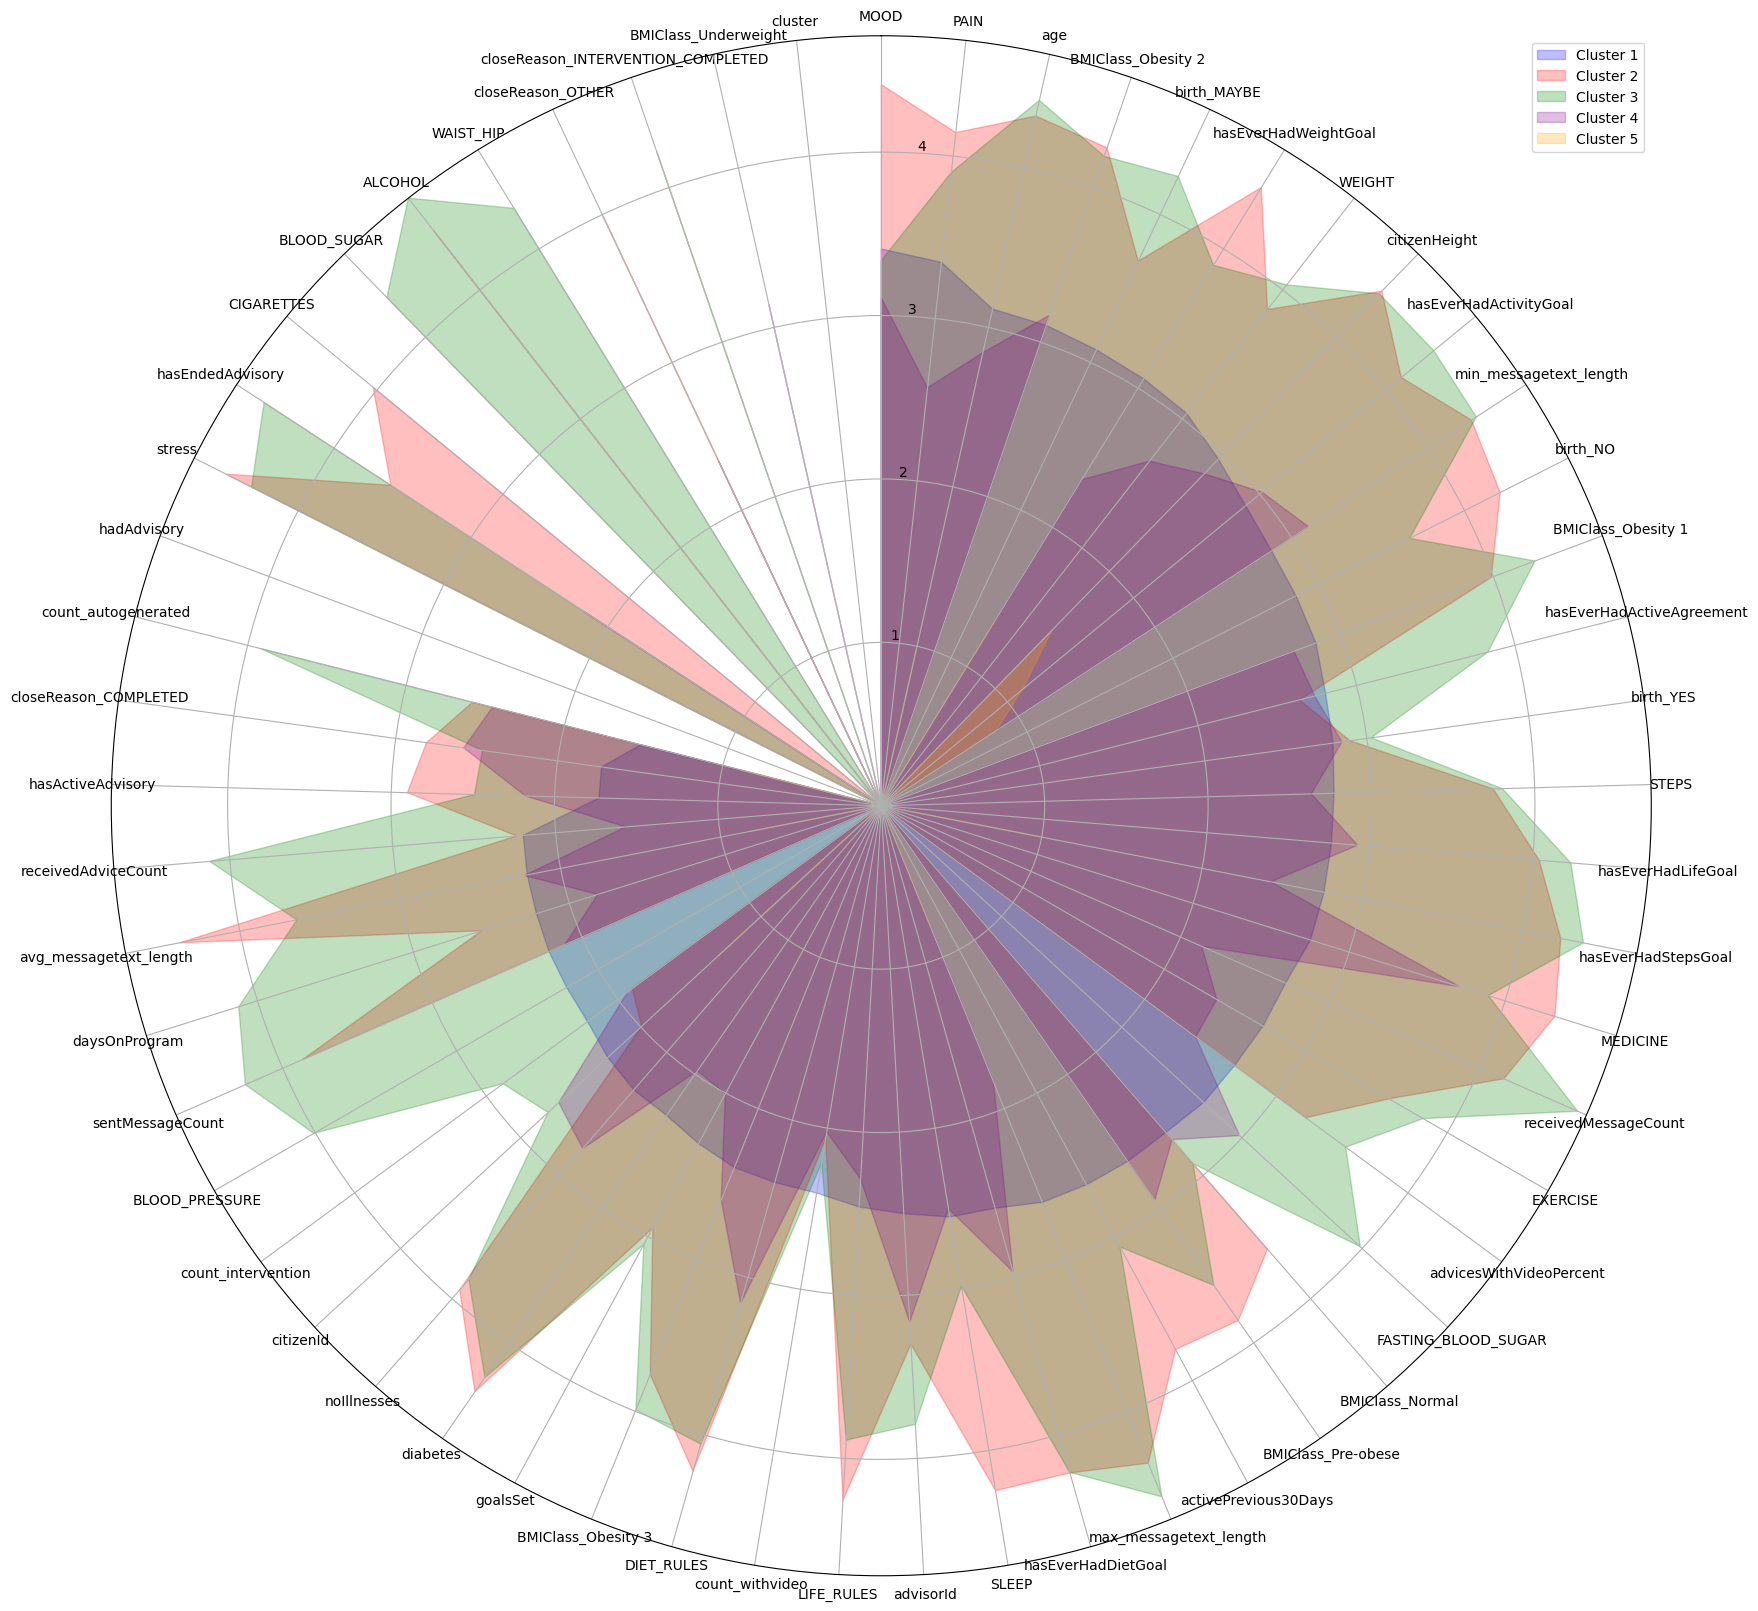
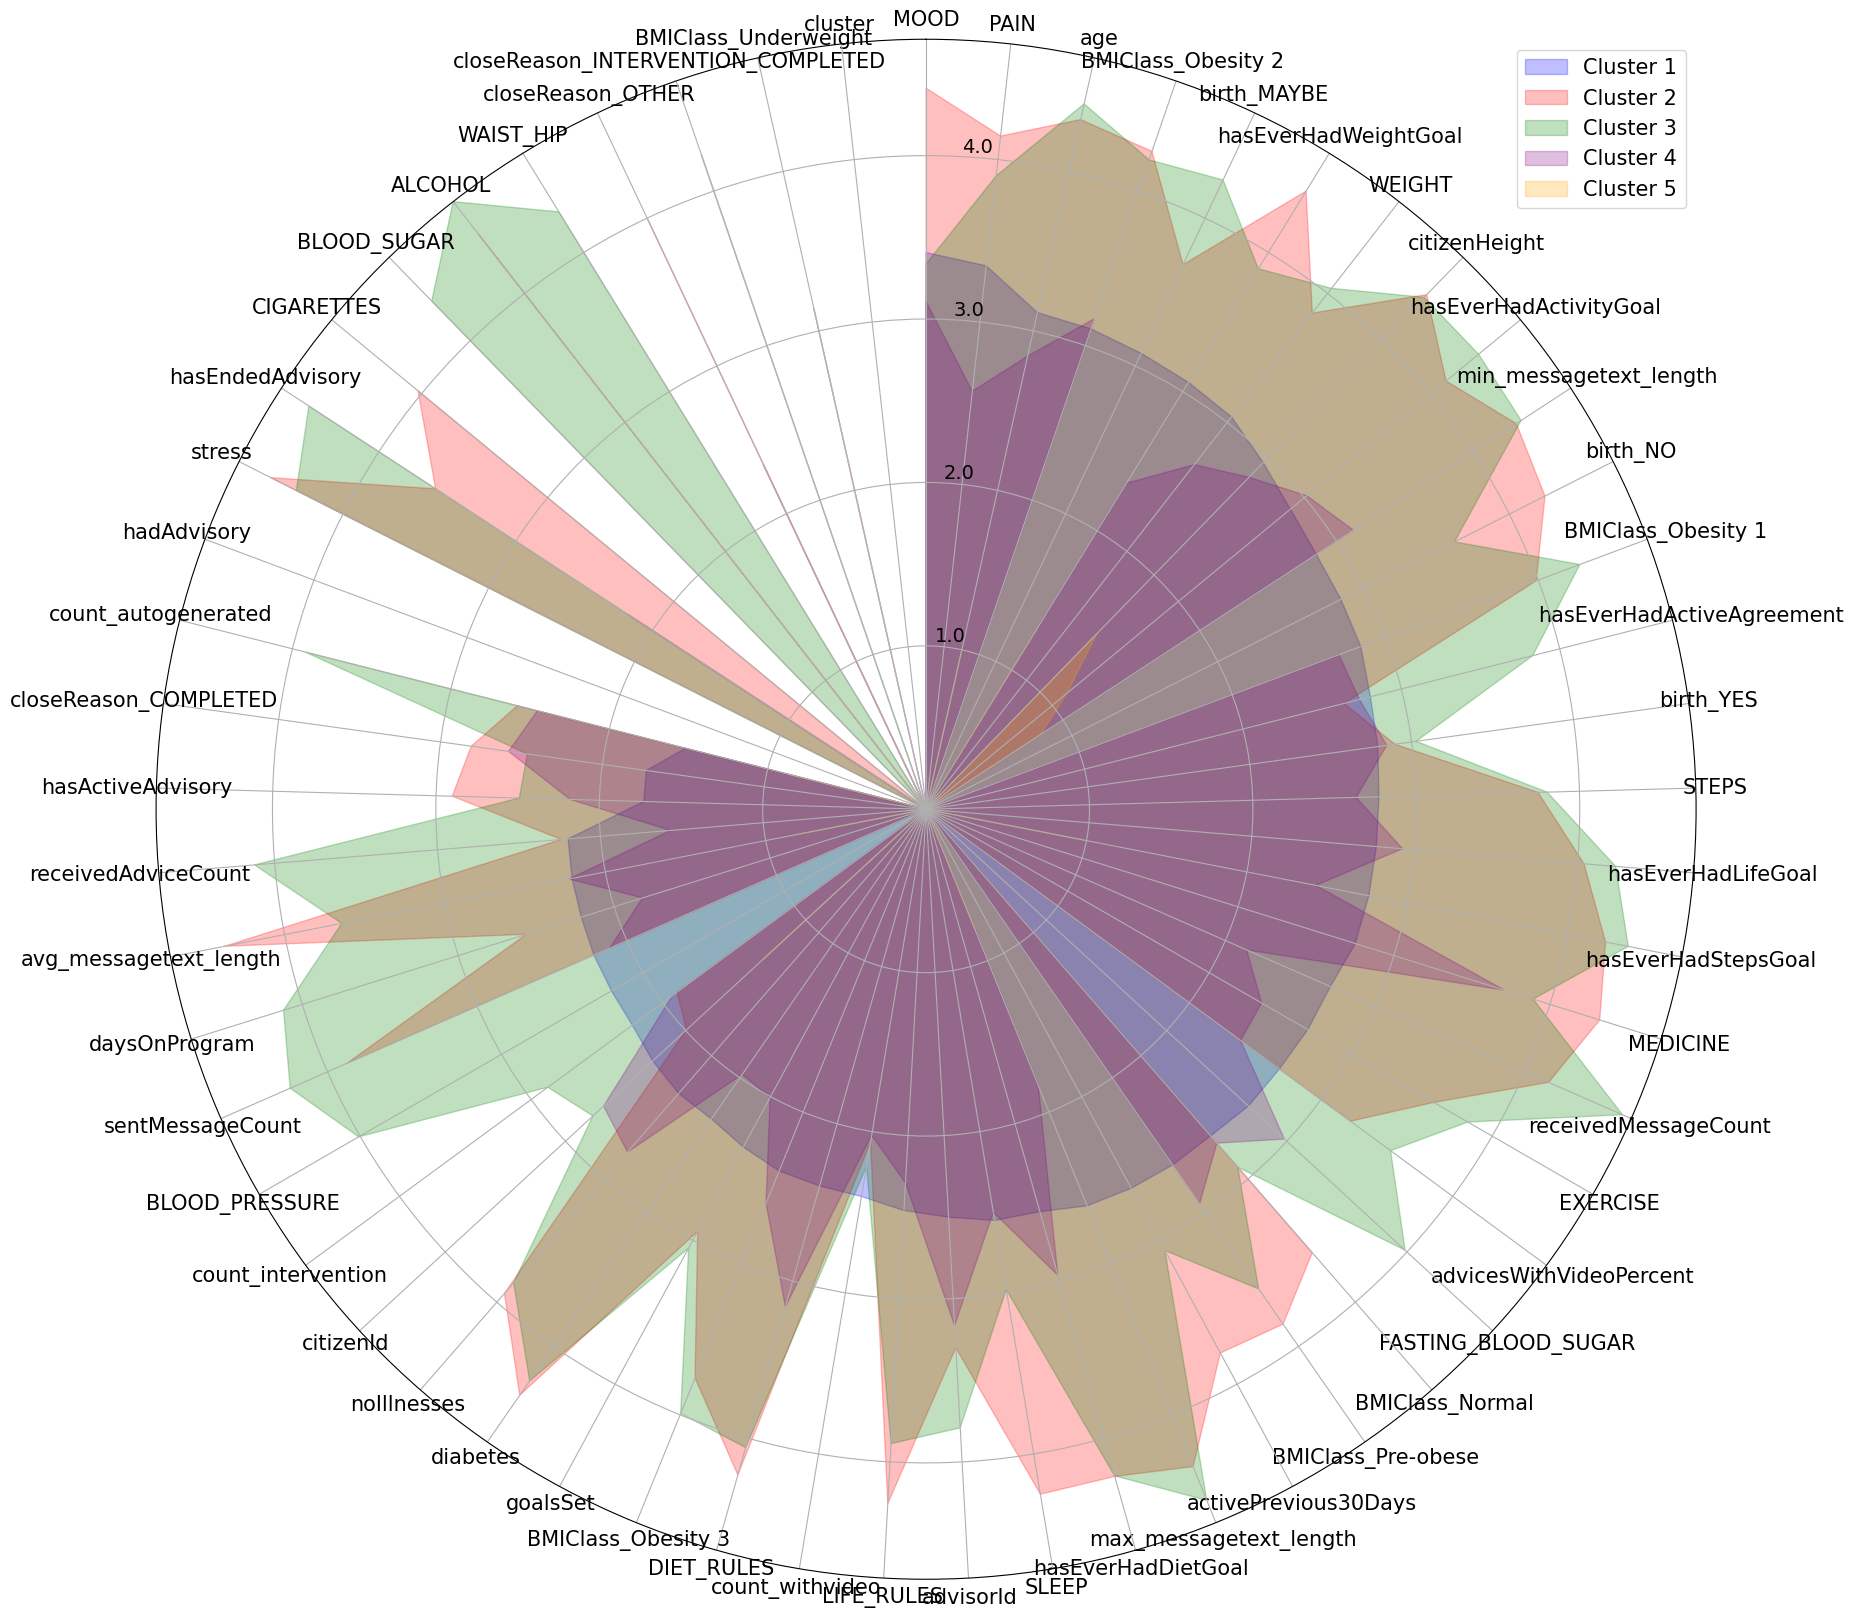
update plots and fonts

Changed region(s): [[0.0, 0.0, 1.0, 0.9932], [0.3993, 0.1862, 0.4608, 0.2173], [0.3686, 0.0931, 0.43, 0.1241]]

diff --git a/report/stat501-project-report.tex b/report/stat501-project-report.tex
@@ -147,19 +147,35 @@ Fig~\ref{fig:countoftypes}
 
 The distribution of the count of citizens against the number of types selected by them is illustrated in Fig~\ref{fig:howmanytypes}.
 
-\begin{figure}[h]
-\centering
-\includegraphics[width=0.7\linewidth]{images/reg_types.png}
-\caption{Count of types}
-\label{fig:countoftypes}
-\end{figure}
+% \begin{figure}[h]
+% \centering
+% \includegraphics[width=0.7\linewidth]{images/reg_types.png}
+% \caption{Count of types}
+% \label{fig:countoftypes}
+% \end{figure}
+
+% \begin{figure}[h]
+% \centering
+% \includegraphics[width=0.7\linewidth]{images/start_end_reg_count.png}
+% \caption{How many citizens select how many types in start\_end\_registrations}
+% \label{fig:howmanytypes}
+% \end{figure}
 
 \begin{figure}[h]
-\centering
-\includegraphics[width=0.7\linewidth]{images/start_end_reg_count.png}
-\caption{How many citizens select how many types in start\_end\_registrations}
-\label{fig:howmanytypes}
+    \centering
+    \begin{minipage}{0.45\linewidth}
+        \includegraphics[width=\linewidth]{images/reg_types.png}
+        \caption{Count of types}
+        \label{fig:countoftypes}
+    \end{minipage}
+    \hfill
+    \begin{minipage}{0.45\linewidth}
+        \includegraphics[width=\linewidth]{images/start_end_reg_count.png}
+        \caption{How many citizens select how many types in start\_end\_registrations}
+        \label{fig:howmanytypes}
+    \end{minipage}
 \end{figure}
+
 
 \subsubsection{Registrations per Goal}
 The \textit{registrations per goal} table aggregates registration data by the goal of each registration type for citizens. 
@@ -267,6 +283,20 @@ In contrast, Figure~\ref{fig:top5_features} focuses on the top 5 most impactful 
     \caption{impact of top 5 features for each cluster}
     \label{fig:top5_features}
 \end{figure}
+
+% \begin{figure}[h!]
+% 	\centering
+% 	\includegraphics[width=0.5\linewidth]{images/all_feature}
+% 	\caption{Impact of all features for each cluster}
+% 	\label{fig:all_features}
+  
+% 	\vspace{1cm} % You can adjust the vertical space as needed
+  
+% 	\includegraphics[width=0.5\linewidth]{images/top5_features.png}
+% 	\caption{Impact of top 5 features for each cluster}
+% 	\label{fig:top5_features}
+%   \end{figure}
+  
 
 \newpage
 
